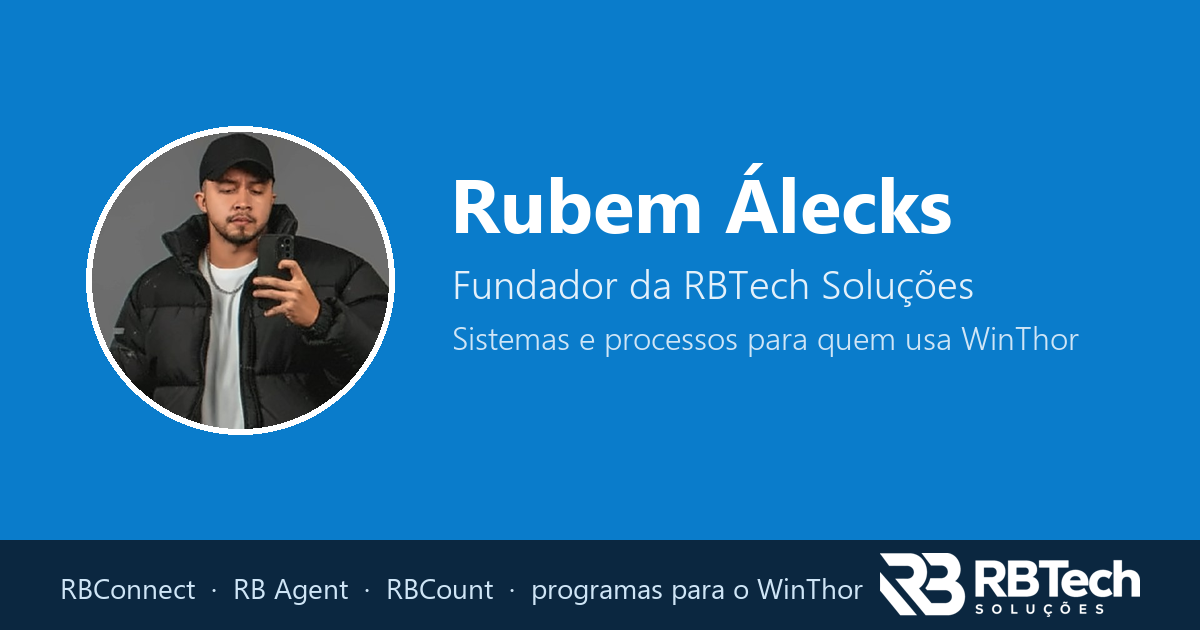
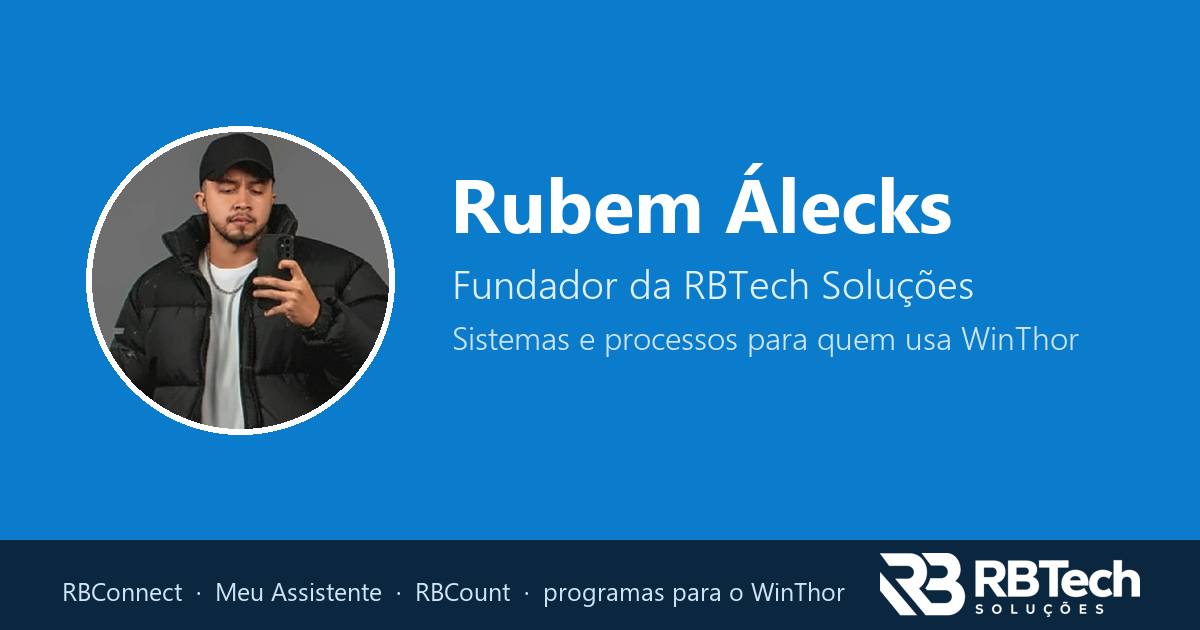
Portfólio: sai o RB Agent, fica o Meu Assistente; topo com o painel dos vendedores e o celular do Meu Assistente

Changed region(s): [[0.0308, 0.9048, 0.7092, 0.9651]]

diff --git a/index.html b/index.html
@@ -4,12 +4,12 @@
 <meta charset="utf-8">
 <meta name="viewport" content="width=device-width, initial-scale=1">
 <title>Rubem Álecks | RBTech Soluções</title>
-<meta name="description" content="Portfólio de Rubem Álecks, fundador da RBTech Soluções: RBConnect, RB Agent, Send To, RBCount e programas para empresas que usam o ERP WinThor, com especialidade em campanhas e políticas de desconto.">
+<meta name="description" content="Portfólio de Rubem Álecks, fundador da RBTech Soluções: RBConnect, Meu Assistente, Send To, RBCount e programas para empresas que usam o ERP WinThor, com especialidade em campanhas e políticas de desconto.">
 <meta name="theme-color" content="#0A7CCB">
 <meta property="og:type" content="profile">
 <meta property="og:locale" content="pt_BR">
 <meta property="og:title" content="Rubem Álecks | Fundador da RBTech Soluções">
-<meta property="og:description" content="Sistemas e processos para quem usa WinThor: RBConnect, RB Agent, Send To, RBCount e programas sob medida.">
+<meta property="og:description" content="Sistemas e processos para quem usa WinThor: RBConnect, Meu Assistente, Send To, RBCount e programas sob medida.">
 <meta property="og:url" content="https://rubemalecks.github.io/">
 <meta property="og:image" content="https://rubemalecks.github.io/assets/og-rubem.png">
 <meta property="og:image:width" content="1200">
@@ -56,9 +56,13 @@ p { margin: 0 0 1em; }
 .barra nav { display: flex; gap: 22px; flex-wrap: wrap; }
 .barra nav a { color: var(--branco); text-decoration: none; font-weight: 600; font-size: 15px; opacity: .9; }
 .barra nav a:hover { opacity: 1; text-decoration: underline; }
-.heroi { padding: 48px 0 80px; }
-.heroi > div { max-width: 900px; }
-.heroi h1 { color: var(--branco); font-size: clamp(3.4rem, 9vw, 6.6rem); line-height: .92; }
+.heroi { padding: 48px 0 80px; display: grid; grid-template-columns: minmax(0, 1fr) minmax(0, 1.05fr); gap: 48px; align-items: center; }
+.heroi h1 { color: var(--branco); font-size: clamp(3rem, 6.4vw, 5.4rem); line-height: .92; }
+/* Topo: painel dos vendedores com o celular do Meu Assistente na frente, um pouco de lado */
+.vitrine { position: relative; margin: 0; padding: 0 9% 64px 0; }
+.vitrine .painel { width: 100%; border-radius: 12px; border: 1px solid rgba(255,255,255,.35); box-shadow: 0 24px 50px rgba(8,25,42,.35); }
+.vitrine .celular { position: absolute; right: 0; bottom: 0; width: 34%; border-radius: 22px; border: 5px solid var(--marinho); box-shadow: 0 24px 50px rgba(8,25,42,.45); transform: rotate(7deg); }
+.vitrine figcaption { position: absolute; left: 0; bottom: 0; max-width: 60%; font-size: 14px; color: #E3F0FA; line-height: 1.4; }
 .heroi .resumo { margin-top: 24px; }
 .heroi .cargo { font-size: 1.35rem; font-weight: 700; margin: 22px 0 12px; }
 .heroi .resumo { font-size: 1.12rem; color: #E3F0FA; max-width: 34em; }
@@ -108,20 +112,6 @@ section.bloco { padding: 80px 0; }
 .mini-painel figcaption { font-size: 14px; color: var(--suave); margin-top: 10px; line-height: 1.45; }
 .mini-painel img { width: 100%; height: auto; display: block; border-radius: 8px; }
 
-/* Demo do RB Agent */
-.demo { background: var(--papel); border-radius: 18px; padding: 18px; border: 1px solid var(--linha); }
-.demo-perguntas { display: flex; flex-wrap: wrap; gap: 8px; margin-bottom: 14px; }
-.demo-perguntas button { font: 600 14px var(--f-texto); padding: 8px 14px; border-radius: 999px; border: 1px solid var(--linha); background: var(--branco); color: var(--marinho); cursor: pointer; }
-.demo-perguntas button[aria-pressed="true"] { background: var(--azul); border-color: var(--azul); color: var(--branco); }
-.demo-conversa { background: var(--branco); border-radius: 14px; padding: 16px; min-height: 230px; display: grid; gap: 12px; align-content: start; }
-.balao-eu { justify-self: end; background: var(--azul); color: var(--branco); padding: 10px 14px; border-radius: 16px 16px 4px 16px; max-width: 85%; }
-.balao-agente { border-left: 4px solid var(--azul); padding: 4px 0 4px 14px; }
-.balao-agente table { width: 100%; border-collapse: collapse; font-size: 14px; margin-top: 8px; }
-.balao-agente th, .balao-agente td { text-align: left; padding: 5px 6px; border-bottom: 1px solid var(--linha); }
-.balao-agente td.num, .balao-agente th.num { text-align: right; }
-.selo-cor { display: inline-block; padding: 2px 10px; border-radius: 999px; color: var(--branco); font-weight: 700; font-size: 13px; }
-.verde { background: var(--verde); } .vermelho { background: var(--vermelho); }
-
 /* Especialidade */
 .especialidade { background: var(--azul); color: var(--branco); }
 .especialidade h2, .especialidade h3 { color: var(--branco); }
@@ -165,7 +155,7 @@ footer .limite { display: flex; justify-content: space-between; gap: 16px; flex-
 
 @media (max-width: 860px) {
   .barra nav { display: none; }
-  .empresa-grade, .produto, .sobre-grade { grid-template-columns: 1fr; }
+  .heroi, .empresa-grade, .produto, .sobre-grade { grid-template-columns: 1fr; }
   .produto-largo > div:first-child { grid-template-columns: 1fr; }
   .produto-largo > div:first-child > ul { grid-column: 1; grid-row: auto; margin-top: 18px; }
   .produto:nth-of-type(even) .produto-imagem { order: 0; }
@@ -209,6 +199,11 @@ footer .limite { display: flex; justify-content: space-between; gap: 16px; flex-
         <a class="botao botao-contorno" href="https://rbtech.app.br">Conhecer a RBTech</a>
       </div>
     </div>
+    <figure class="vitrine">
+      <img class="painel" src="assets/connect-cards.webp" alt="RBConnect: desempenho dos vendedores com nota, classe e cartões por vendedor" width="1343" height="850">
+      <img class="celular" src="assets/assistente-painel.webp" alt="Meu Assistente no celular: painel de vendas do mês com valor vendido, meta, pedidos e ticket médio" width="585" height="1300">
+      <figcaption>RBConnect no computador e o Meu Assistente no celular (dados fictícios).</figcaption>
+    </figure>
   </div>
 </header>
 
@@ -262,33 +257,7 @@ footer .limite { display: flex; justify-content: space-between; gap: 16px; flex-
 
     <article class="produto">
       <div>
-        <span class="tipo">Assistente da empresa, no celular e no computador</span>
-        <h3 class="com-icone"><img src="assets/rb-agent-icone.png" alt="" width="52" height="52">RB Agent</h3>
-        <p>A pessoa pergunta como falaria com um colega e recebe a resposta com os dados do WinThor, em texto, tabela ou PDF, inclusive o preço com os descontos que valem para cada cliente. Com o Send To, os relatórios também chegam por e-mail, no horário marcado, para cada vendedor e supervisor, só com os números de cada um. Toque numa pergunta para ver a resposta que o RB Agent dá (dados fictícios):</p>
-        <div class="demo">
-          <div class="demo-perguntas" role="group" aria-label="Perguntas de exemplo">
-            <button type="button" data-p="0" aria-pressed="true">quanto vendemos em 16/11?</button>
-            <button type="button" data-p="1" aria-pressed="false">recorrência do cliente 1001</button>
-            <button type="button" data-p="2" aria-pressed="false">melhor cliente do vendedor Bruno</button>
-            <button type="button" data-p="3" aria-pressed="false">desempenho da família 508</button>
-          </div>
-          <div class="demo-conversa" aria-live="polite" id="demo-conversa"></div>
-        </div>
-      </div>
-      <div class="produto-imagem">
-        <figure>
-          <div class="celulares">
-            <img src="assets/agent-app-melhor-cliente.webp" alt="RB Agent no celular: melhor cliente de um vendedor, com a nota, o motivo escrito e os clientes logo atrás" width="585" height="1266" loading="lazy">
-            <img src="assets/agent-app-familia.webp" alt="RB Agent no celular: desempenho de uma família de produtos em 12 meses, com o índice de preço e as conclusões" width="585" height="1266" loading="lazy">
-          </div>
-          <figcaption class="legenda">No celular: o melhor cliente de um vendedor, com o motivo, e o desempenho de uma família de produtos.</figcaption>
-        </figure>
-      </div>
-    </article>
-
-    <article class="produto">
-      <div>
-        <span class="tipo">App Android do assistente</span>
+        <span class="tipo">Assistente da empresa no celular</span>
         <h3 class="com-icone"><img src="assets/meu-assistente-icone.png" alt="" width="52" height="52">Meu Assistente</h3>
         <p>O assistente da empresa num app próprio para o celular. A pessoa pergunta escrevendo ou falando, vê a resposta pronta na tela e manda o relatório em PDF para a equipe pelo WhatsApp em dois toques.</p>
         <ul>
@@ -404,8 +373,7 @@ footer .limite { display: flex; justify-content: space-between; gap: 16px; flex-
     </div>
     <ul class="marcas">
       <li><strong>RBConnect</strong><span>gestão comercial no navegador</span></li>
-      <li><strong>RB Agent</strong><span>assistente da empresa no celular e no computador</span></li>
-      <li><strong>Meu Assistente</strong><span>o assistente num app Android, com envio pelo WhatsApp</span></li>
+      <li><strong>Meu Assistente</strong><span>assistente da empresa no celular, com envio pelo WhatsApp</span></li>
       <li><strong>Send To</strong><span>relatórios e avisos por e-mail para cada vendedor</span></li>
       <li><strong>RBCount</strong><span>inventário pelo celular</span></li>
       <li><strong>Programas para o WinThor</strong><span>sob medida para cada processo</span></li>
@@ -454,24 +422,6 @@ footer .limite { display: flex; justify-content: space-between; gap: 16px; flex-
 </footer>
 
 <script>
-// Demonstração do RB Agent com dados fictícios.
-const RESPOSTAS = [
-  `<span style="color:#4E6075">Entendi: vendas de 16/11/2026</span><br><strong>Vendas de 16/11/2026</strong><br>Total: <strong>R$ 12.795,48</strong><br>Quantidade: <strong>689 unid.</strong> (57,4 cx master)<br>Peso líquido: <strong>873,2 kg</strong><br>Pedidos: 18<br>Clientes atendidos: 17<br><span style="color:#4E6075">O relatório completo está no PDF.</span>`,
-  `<span style="color:#4E6075">Entendi: recorrência mês a mês, cliente: cliente 1</span><br><strong>Recorrência mês a mês</strong> · mai/26 a out/26<br>Cliente: CLIENTE 1<br><span class="selo-cor verde">Subindo</span> comprando mais: último mês acima de 130% da média.<br><span style="color:#4E6075">O relatório completo está no PDF.</span>`,
-  `<span style="color:#4E6075">Entendi: o melhor cliente dos últimos 6 meses (nota, não só o valor), vendedor: Bruno Lima</span><br><strong>Melhor cliente: CLIENTE 19 (1019)</strong>, nota <strong>9,2</strong> (Destaque), classe A.<br>Por quê: comprou todos os 6 meses; média de R$ 2.633,15 por mês (melhor que 100% dos clientes); nenhuma devolução; comprando mais (96,7% a mais nos 3 últimos meses que nos 3 primeiros); 31 produtos diferentes.<br>Fica à frente de CLIENTE 33 (1033, nota 7,5) principalmente em tendência e média mensal comprada.
-<br><strong>Logo atrás</strong><br>2º CLIENTE 33 (1033) · nota 7,5 · média R$ 2.301,56 · 6 de 6 meses<br>3º CLIENTE 41 (1041) · nota 7,4 · média R$ 2.610,16 · 6 de 6 meses<br>4º CLIENTE 27 (1027) · nota 7,3 · média R$ 1.949,56 · 5 de 6 meses<br><span style="color:#4E6075">O relatório completo está no PDF.</span>`,
-  `<span style="color:#4E6075">Entendi: desempenho da família PRODUTO 8 (508) nos últimos 12 meses</span><br><strong>Desempenho da família PRODUTO 8 (508)</strong> · dez/25 a nov/26<br>Vendido em 12 meses: <strong>R$ 445,6 mil</strong> (11,5% de tudo que foi vendido no recorte)<br>Média por mês: <strong>R$ 38,2 mil</strong><br>3 últimos meses × 3 anteriores: <strong>+5,1%</strong><br>Índice de preço (R$ por cx): <strong>100,8</strong> (base dez/25 = 100)
-   <br><strong>Conclusões</strong><br><span class="selo-cor verde">Estável</span> os 3 últimos meses fechados ficaram perto dos 3 anteriores.<br>Melhor e pior mês: mar/26 (R$ 52.068,16) e set/26 (R$ 30.253,60).<br><span style="color:#4E6075">O relatório completo está no PDF.</span>`
-];
-const PERGUNTAS = ['quanto vendemos em 16/11?', 'recorrência do cliente 1001', 'melhor cliente do vendedor Bruno', 'desempenho da família 508'];
-const conversa = document.getElementById('demo-conversa');
-function mostrar(i) {
-  conversa.innerHTML = `<div class="balao-eu">${PERGUNTAS[i]}</div><div class="balao-agente">${RESPOSTAS[i]}</div>`;
-  document.querySelectorAll('.demo-perguntas button').forEach(b => b.setAttribute('aria-pressed', String(Number(b.dataset.p) === i)));
-}
-document.querySelectorAll('.demo-perguntas button').forEach(b => b.addEventListener('click', () => mostrar(Number(b.dataset.p))));
-mostrar(0);
-
 // Meu Assistente: as telas se alternam sozinhas; os botões escolhem uma e param a troca. Sem troca com "reduzir movimento".
 document.querySelectorAll('[data-alternar]').forEach(function (fig) {
   var imagens = Array.prototype.slice.call(fig.querySelectorAll('.quadros img'));

diff --git a/README.md b/README.md
@@ -1,11 +1,11 @@
 # rubemalecks.github.io
 
-Portfólio de **Rubem Álecks**, fundador da **RBTech Soluções** (https://rbtech.app.br): RBConnect, RB Agent, RBCount
+Portfólio de **Rubem Álecks**, fundador da **RBTech Soluções** (https://rbtech.app.br): RBConnect, Meu Assistente, RBCount
 e rotinas para empresas que usam o ERP WinThor, com especialidade em campanhas e políticas de desconto.
 
 🔗 **https://rubemalecks.github.io**
 
-Página estática (HTML + CSS + um pouco de JavaScript para a demonstração do RB Agent), publicada pelo GitHub Pages a
+Página estática (HTML + CSS + um pouco de JavaScript para as telas do Meu Assistente se alternarem), publicada pelo GitHub Pages a
 partir da branch `main`. Identidade visual da RBTech (azul do logo #0A7CCB, marinho só para texto e faixas, sem
 amarelo; fontes Big Shoulders Display e Hanken Grotesk).
 
@@ -13,7 +13,7 @@ amarelo; fontes Big Shoulders Display e Hanken Grotesk).
 |---|---|
 | `index.html` | A página completa |
 | `assets/og-rubem.png` | Prévia ao compartilhar o link (LinkedIn, WhatsApp) |
-| `assets/connect-*.webp`, `agent-*.webp`, `count-app.webp` | Telas dos produtos, com dados fictícios |
+| `assets/connect-*.webp`, `assistente-*.webp`, `count-app.webp` | Telas dos produtos, com dados fictícios |
 | `assets/rubem.jpg`, `assets/rbtech-logo-branco.png` | Foto e logo |
 
 Regras de conteúdo: dos produtos privados, só os benefícios (nada de arquitetura, tabelas, provedor de IA ou
